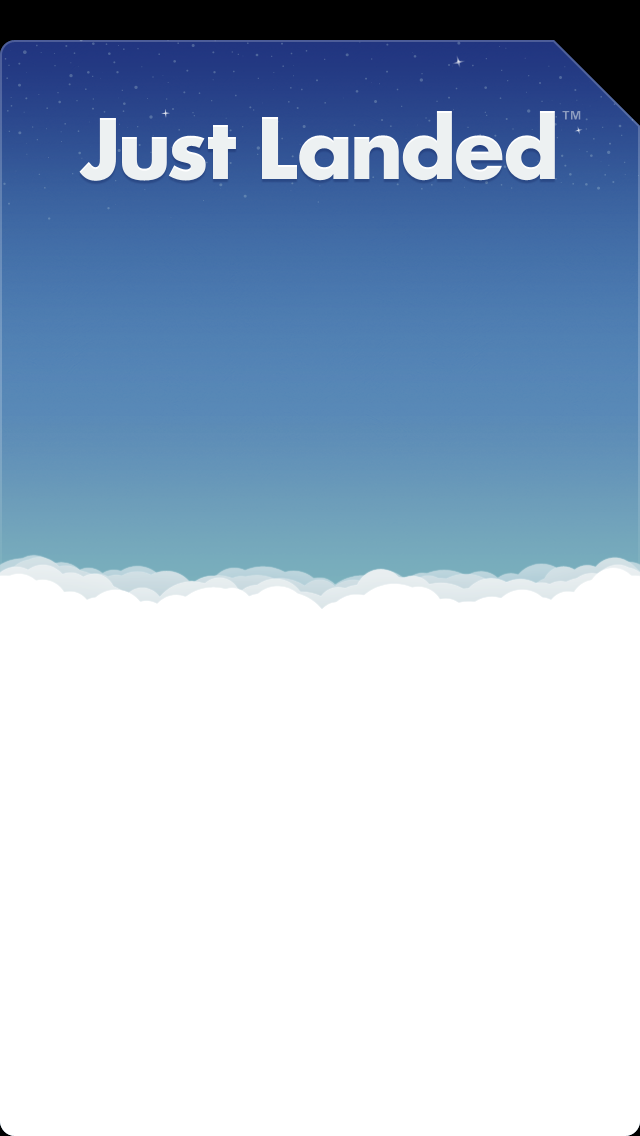
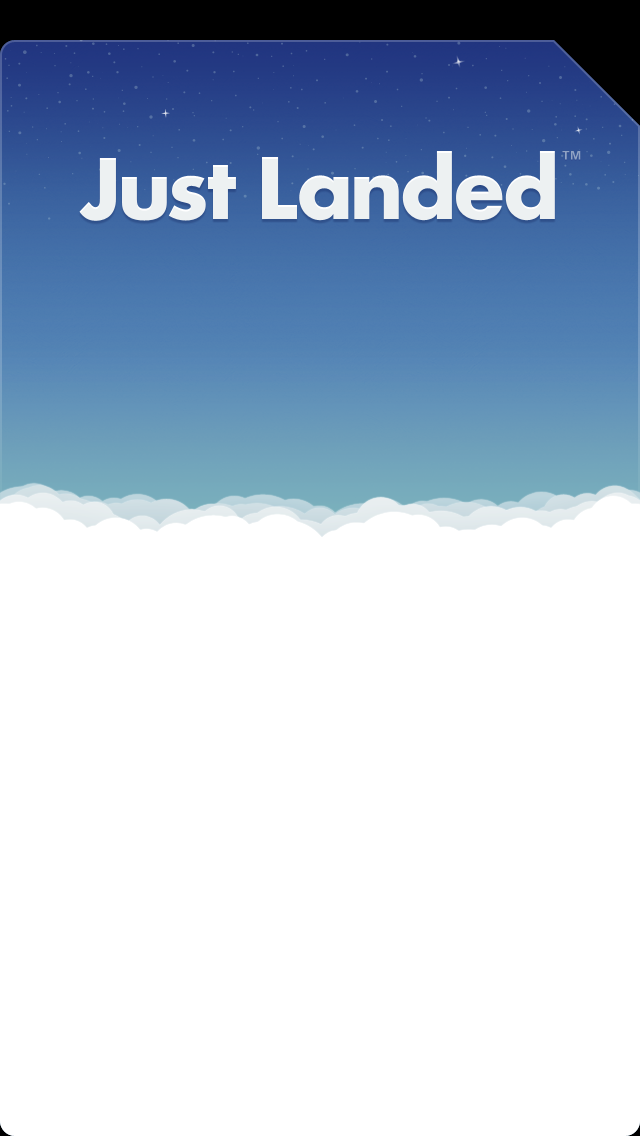
- New loading, error, no connection screens for iPhone 5

Changed region(s): [[0.0, 0.4005, 1.0, 0.5546], [0.4062, 0.0924, 0.9062, 0.2157], [0.125, 0.0924, 0.375, 0.2157]]

diff --git a/JustLanded/JLServerErrorView.m b/JustLanded/JLServerErrorView.m
@@ -28,15 +28,17 @@
 - (id)initWithFrame:(CGRect)aFrame errorType:(ErrorType)type {
     self = [super initWithFrame:aFrame];
     if (self) {
+        CGFloat errorDescriptionLabelOriginY = [UIScreen isMainScreenWide] ? 361.0f : 321.0f;
         errorDescriptionLabel_ = [[JLLabel alloc] initWithLabelStyle:[JLStyles errorDescriptionLabelStyle]
                                                                frame:CGRectMake(10.0f,
-                                                                                321.0f, // FIXME: iPhone 5 screen
+                                                                                errorDescriptionLabelOriginY,
                                                                                 aFrame.size.width - 20.0f,
                                                                                 50.0f)];
         
+        CGFloat moreInfoButtonOriginY = [UIScreen isMainScreenWide] ? 401.0f : 313.0f;
         moreInfoButton_ = [[JLButton alloc] initWithButtonStyle:[JLStyles defaultButtonStyle]
                                                           frame:CGRectMake(10.0f,
-                                                                           313.0f, // FIXME: iPhone 5 screen
+                                                                           moreInfoButtonOriginY,
                                                                            aFrame.size.width - 20.0f,
                                                                            56.0f)];
         moreInfoButton_.titleLabel.shadowOffset = CGSizeMake(0.0f, -1.0f);
@@ -62,35 +64,30 @@
 
 - (void)setErrorType:(ErrorType)aType {
     errorType_ = aType;
+    CGFloat noConnectionLabelOriginY;
+    CGFloat errorDescriptionLabelOriginY;
+    CGFloat noConnectionImageViewOriginY;
+    CGFloat dividerOriginY;
+    
+    
     switch (aType) {
         case ERROR_503: {
             self.noConnectionLabel.text = NSLocalizedString(@"Service Outage", @"Service Outage");
             self.errorDescriptionLabel_.text = NSLocalizedString(@"Just Landed is currently unavailable.", @"503 description");
             
-            self.noConnectionLabel.frame = CGRectMake((self.frame.size.width - 300.0f) / 2.0f,
-                                                      234.0f, // FIXME: iPhone 5 screen
-                                                      300.0f,
-                                                      30.0f);
-            
-            self.errorDescriptionLabel_.frame = CGRectMake(10.0f,
-                                                      261.0f, // FIXME: iPhone 5 screen
-                                                      self.frame.size.width - 20.0f,
-                                                      50.0f);
-            
-            self.noConnectionImageView.image = [UIImage imageNamed:@"server_down"
-                                                         withColor:nil
-                                                       shadowColor:[UIColor whiteColor] 
-                                                      shadowOffset:CGSizeMake(0.0f, 1.0f)
-                                                        shadowBlur:0.0f];
-            self.noConnectionImageView.frame = CGRectMake((320.0f - self.noConnectionImageView.image.size.width) / 2.0f,
-                                                          80.0f, // FIXME: iPhone 5 screen
-                                                          self.noConnectionImageView.image.size.width,
-                                                          self.noConnectionImageView.image.size.height);
-            self.divider.frame = CGRectMake(self.divider.frame.origin.x,
-                                            293.0f, // FIXME: iPhone 5 screen
-                                            self.divider.frame.size.width,
-                                            self.divider.frame.size.height);
-            
+            if ([UIScreen isMainScreenWide]) {
+                noConnectionLabelOriginY = 274.0f;
+                errorDescriptionLabelOriginY = 301.0f;
+                noConnectionImageViewOriginY = 120.0f;
+                dividerOriginY = 381.0f;
+            }
+            else {
+                noConnectionLabelOriginY = 234.0f;
+                errorDescriptionLabelOriginY = 261.0f;
+                noConnectionImageViewOriginY = 80.0f;
+                dividerOriginY = 293.0f;
+            }
+
             [self addSubview:self.moreInfoButton_];
             
             break;
@@ -99,35 +96,50 @@
             self.noConnectionLabel.text = NSLocalizedString(@"Server Error", @"Server Error");
             self.errorDescriptionLabel_.text = NSLocalizedString(@"Our engineers have been notified.", @"500 description");
             
-            self.noConnectionLabel.frame = CGRectMake((self.frame.size.width - 300.0f) / 2.0f,
-                                                      294.0f, // FIXME: iPhone 5 screen
-                                                      300.0f,
-                                                      30.0f);
-            
-            self.errorDescriptionLabel_.frame = CGRectMake(10.0f,
-                                                      321.0f, // FIXME: iPhone 5 screen
-                                                      self.frame.size.width - 20.0f,
-                                                      50.0f);
-            
-            self.noConnectionImageView.image = [UIImage imageNamed:@"server_down" 
-                                                         withColor:nil
-                                                       shadowColor:[UIColor whiteColor] 
-                                                      shadowOffset:CGSizeMake(0.0f, 1.0f)
-                                                        shadowBlur:0.0f];
-            self.noConnectionImageView.frame = CGRectMake((320.0f - self.noConnectionImageView.image.size.width) / 2.0f,
-                                                          100.0f, // FIXME: iPhone 5 screen
-                                                          self.noConnectionImageView.image.size.width,
-                                                          self.noConnectionImageView.image.size.height);
-            self.divider.frame = CGRectMake(self.divider.frame.origin.x,
-                                            353.0f, // FIXME: iPhone 5 screen
-                                            self.divider.frame.size.width,
-                                            self.divider.frame.size.height);
+            if ([UIScreen isMainScreenWide]) {
+                noConnectionLabelOriginY = 294.0f;
+                errorDescriptionLabelOriginY = 321.0f;
+                noConnectionImageViewOriginY = 140.0f;
+                dividerOriginY = 441.0f;
+            }
+            else {
+                noConnectionLabelOriginY = 254.0f;
+                errorDescriptionLabelOriginY = 281.0f;
+                noConnectionImageViewOriginY = 100.0f;
+                dividerOriginY = 353.0f;
+            }
             
             [self.moreInfoButton_ removeFromSuperview];
             
             break;
         }
     }
+    
+    self.noConnectionLabel.frame = CGRectMake((self.frame.size.width - 300.0f) / 2.0f,
+                                              noConnectionLabelOriginY,
+                                              300.0f,
+                                              30.0f);
+    
+    self.errorDescriptionLabel_.frame = CGRectMake(10.0f,
+                                                   errorDescriptionLabelOriginY,
+                                                   self.frame.size.width - 20.0f,
+                                                   50.0f);
+    
+    self.noConnectionImageView.image = [UIImage imageNamed:@"server_down"
+                                                 withColor:nil
+                                               shadowColor:[UIColor whiteColor]
+                                              shadowOffset:CGSizeMake(0.0f, 1.0f)
+                                                shadowBlur:0.0f];
+    
+    self.noConnectionImageView.frame = CGRectMake((320.0f - self.noConnectionImageView.image.size.width) / 2.0f,
+                                                  noConnectionImageViewOriginY,
+                                                  self.noConnectionImageView.image.size.width,
+                                                  self.noConnectionImageView.image.size.height);
+    
+    self.divider.frame = CGRectMake(self.divider.frame.origin.x,
+                                    dividerOriginY,
+                                    self.divider.frame.size.width,
+                                    self.divider.frame.size.height);
 }
 
 

diff --git a/JustLanded/JLNoConnectionView.m b/JustLanded/JLNoConnectionView.m
@@ -34,7 +34,8 @@
         self.autoresizingMask = UIViewAutoresizingFlexibleTopMargin;
         
         // Add background
-        UIImageView *backgroundView = [[UIImageView alloc] initWithImage:[UIImage imageNamed:@"overlay_screens_bg"]];
+        NSString *bgName = [UIScreen isMainScreenWide] ? @"overlay_screens_bg-568h" : @"overlay_screens_bg";
+        UIImageView *backgroundView = [[UIImageView alloc] initWithImage:[UIImage imageNamed:bgName]];
         backgroundView.frame = aFrame;
  
         // Add no connection graphic
@@ -44,30 +45,34 @@
                                     shadowOffset:CGSizeMake(0.0f, 1.0f) 
                                       shadowBlur:0.0f];
         noConnectionImageView_ = [[UIImageView alloc] initWithImage:noConnImg];
+        CGFloat noConnectionImageOriginY = [UIScreen isMainScreenWide] ? 90.0f : 50.0f;
         noConnectionImageView_.frame = CGRectMake((aFrame.size.width - noConnImg.size.width) / 2.0f,
-                                                 50.0f, // FIXME: iPhone 5 screen
+                                                 noConnectionImageOriginY,
                                                  noConnImg.size.width,
                                                  noConnImg.size.height);
         
         // Add divider
         divider_ = [[UIImageView alloc] initWithImage:[UIImage imageNamed:@"divider"]];
+        CGFloat dividerOriginY = [UIScreen isMainScreenWide] ? 431.0f : 343.0f;
         divider_.frame = CGRectMake((320.0f - divider_.frame.size.width) / 2.0f,
-                                    343.0f, // FIXME: iPhone 5 screen
+                                    dividerOriginY,
                                     divider_.frame.size.width,
                                     divider_.frame.size.height);
         
         // Add label
+        CGFloat noConnectionLabelOriginY = [UIScreen isMainScreenWide] ? 334.0f : 294.0f;
         noConnectionLabel_ = [[JLLabel alloc] initWithLabelStyle:[JLStyles noConnectionLabelStyle]
                                                            frame:CGRectMake((aFrame.size.width - 300.0f) / 2.0f,
-                                                                            294.0f, // FIXME: iPhone 5 screen
-                                                                            300.0f,
+                                                                            noConnectionLabelOriginY,
+                                                                            aFrame.size.width - 20.0f,
                                                                             30.0f)];
         noConnectionLabel_.text = NSLocalizedString(@"No Internet Connection", @"No Internet Connection");
         
         // Add retry button
+        CGFloat tryAgainButtonOriginY = [UIScreen isMainScreenWide] ? 461.0f : 373.0f;
         tryAgainButton_ = [[JLButton alloc] initWithButtonStyle:[JLStyles defaultButtonStyle]
                                                           frame:CGRectMake(10.0f,
-                                                                           373.0f, // FIXME: iPhone 5 screen
+                                                                           tryAgainButtonOriginY,
                                                                            aFrame.size.width - 20.0f,
                                                                            56.0f)];
         [tryAgainButton_ addTarget:self

diff --git a/JustLanded/JLLoadingView.m b/JustLanded/JLLoadingView.m
@@ -28,22 +28,24 @@
         self.backgroundColor = [UIColor clearColor];
         self.autoresizingMask = UIViewAutoresizingFlexibleTopMargin;
         
-        UIImageView *bgView = [[UIImageView alloc] initWithImage:[UIImage imageNamed:@"overlay_screens_bg"]];
+        NSString *bgName = [UIScreen isMainScreenWide] ? @"overlay_screens_bg-568h" : @"overlay_screens_bg";
+        UIImageView *bgView = [[UIImageView alloc] initWithImage:[UIImage imageNamed:bgName]];
         bgView.frame = aFrame;
         
         // Add the label
-        loadingLabel_ = [[JLLabel alloc] initWithLabelStyle:[JLStyles loadingLabelStyle]
-                                                      frame:CGRectMake(10.0f,
-                                                                       274.0f, // FIXME: iPhone 5 screen
-                                                                       aFrame.size.width - 20.0f,
-                                                                       50.0f)];
+        CGFloat loadingLabelOriginY = [UIScreen isMainScreenWide] ? 326.0f : 274.0f;
+        loadingLabel_ = [[JLLabel alloc] initWithLabelStyle:[JLStyles loadingLabelStyle] frame:CGRectMake(10.0f,
+                                                                                                          loadingLabelOriginY,
+                                                                                                          aFrame.size.width - 20.0f,
+                                                                                                          50.0f)];
         loadingLabel_.text = NSLocalizedString(@"Loading", @"Loading");
         
         
         // Configure the loading spinner;
         loadingSpinner_ = [[JLSpinner alloc] initWithFrame:CGRectZero];
+        CGFloat spinnerOriginY = [UIScreen isMainScreenWide] ? 182.0f : 130.0f;
         loadingSpinner_.frame = CGRectMake((aFrame.size.width - loadingSpinner_.frame.size.width) / 2.0f,
-                                           130.0f, // FIXME: iPhone 5 screen
+                                           spinnerOriginY,
                                            loadingSpinner_.frame.size.width,
                                            loadingSpinner_.frame.size.height);
         

diff --git a/JustLanded/WebContentViewController.m b/JustLanded/WebContentViewController.m
@@ -138,8 +138,9 @@
                                                                                                   -44.0f, // Navbar height
                                                                                                   screenBounds.size.width,
                                                                                                   screenBounds.size.height - 20.0f); // Status bar
+                                                     CGFloat noConnectionImageViewOriginY = [UIScreen isMainScreenWide] ? 110.0f : 70.0f;
                                                      self.noConnectionOverlay_.noConnectionImageView.frame = CGRectMake(self.noConnectionOverlay_.noConnectionImageView.frame.origin.x,
-                                                                                                                        70.0f, // FIXME: iPhone 5 screen
+                                                                                                                        noConnectionImageViewOriginY,
                                                                                                                         self.noConnectionOverlay_.noConnectionImageView.frame.size.width,
                                                                                                                         self.noConnectionOverlay_.noConnectionImageView.frame.size.height);
                                                      self.noConnectionOverlay_.delegate = self;
@@ -213,7 +214,7 @@
     
     // Add a black BG
     UIView *blackBG = [[UIView alloc] initWithFrame:CGRectMake(0.0f,
-                                                               200.0f, // FIXME: iPhone 5 screen
+                                                               200.0f,
                                                                screenBounds.size.width,
                                                                mainView.frame.size.height - 200.0f)];
     blackBG.backgroundColor = [UIColor blackColor];

diff --git a/JustLanded/FlightLookupViewController.m b/JustLanded/FlightLookupViewController.m
@@ -478,13 +478,8 @@ static NSRegularExpression *sAirlineCodeRegex_;
                                                                           screenBounds.size.height - 20.0f)]; // Status bar
     mainView.backgroundColor = [UIColor blackColor];
     
-    if ([UIScreen isMainScreenWide]) {
-        mainView.image = [UIImage imageNamed:@"sky_bg-568h"];
-    }
-    else {
-        mainView.image = [UIImage imageNamed:@"sky_bg"];
-    }
-    
+    NSString *bgName = [UIScreen isMainScreenWide] ? @"sky_bg-568h" : @"sky_bg";
+    mainView.image = [UIImage imageNamed:bgName];
     mainView.userInteractionEnabled = YES;
     self.view = mainView;
     

diff --git a/JustLanded/AboutViewController.m b/JustLanded/AboutViewController.m
@@ -56,14 +56,9 @@ typedef enum {
 
 - (void)loadView {    
     UIImageView *mainView = [[UIImageView alloc] initWithFrame:CGRectZero];
-    
-    if ([UIScreen isMainScreenWide]) {
-        mainView.image = [UIImage imageNamed:@"sky_bg-568h"];
-    }
-    else {
-        mainView.image = [UIImage imageNamed:@"sky_bg"];
-    }
-    
+
+    NSString *bgName = [UIScreen isMainScreenWide] ? @"sky_bg-568h" : @"sky_bg";
+    mainView.image = [UIImage imageNamed:bgName];
     CGRect screenBounds = [[UIScreen mainScreen] bounds];
     mainView.frame = CGRectMake(0.0f,
                                 0.0f,
